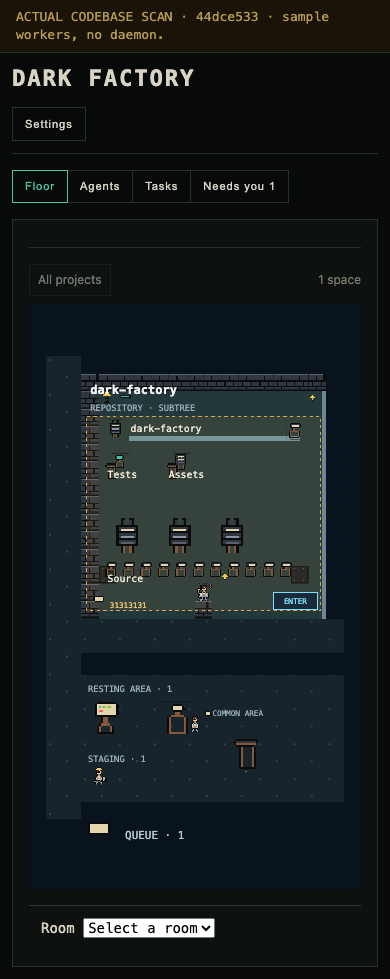
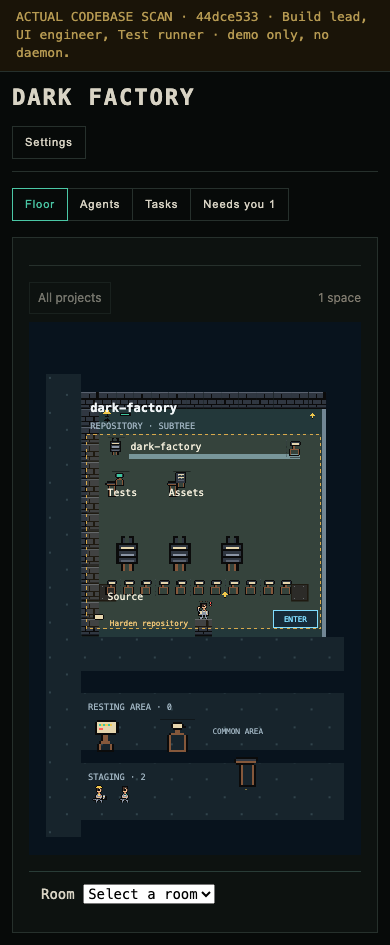
Show useful work in README floor demo

diff --git a/web/apps/dev/src/main.tsx b/web/apps/dev/src/main.tsx
@@ -89,6 +89,15 @@ const fixtureInventoryTopologies = new Map(fixtureHierarchyTopologies).set(fixtu
   ],
 });
 const fixtureInventoryState = { ...fixtureFloorState, humanRequests: new Map() };
+const actualAgentNames = ["Build lead", "UI engineer", "Test runner"];
+const actualFixtureState = {
+  ...fixtureInventoryState,
+  projects: new Map([[actualTopology.projectId, { ...fixtureInventoryState.projects.get(actualTopology.projectId)!, name: "dark-factory" }]]),
+  agents: new Map([...fixtureFloorState.agents].map(([id, agent], index) => [id, { ...agent, project_id: actualTopology.projectId, name: actualAgentNames[index] ?? agent.name }])),
+  tasks: new Map([...fixtureFloorState.tasks].map(([id, task], index) => [id, { ...task, project_id: actualTopology.projectId, status: "running" as const, title: ["Harden repository intake", "Render the operator settings", "Run the release checks"][index] ?? task.title }])),
+  humanRequests: new Map([...fixtureFloorState.humanRequests].map(([id, request]) => [id, { ...request, project_id: actualTopology.projectId }])),
+};
+const actualRequest = actualFixtureState.humanRequests.values().next().value!;
 
 // Fixture tour: sample data, no daemon, no authority. Fixture-only state
 // toggles expose production components; no action reports a daemon result.
@@ -115,11 +124,13 @@ function FixtureTour() {
   const [settingsOpen, setSettingsOpen] = useState(false);
   const [selectedAgent, setSelectedAgent] = useState<FactoryConsoleProps["selectedAgent"]>(terminalFixture ? { id: fixtureAgent.id, name: fixtureAgent.name, revision: fixtureAgent.revision } : archiveFixture ? { id: archiveAgent.id, name: archiveAgent.name, revision: archiveAgent.revision } : undefined);
   const [selectedTaskId, setSelectedTaskId] = useState<string>();
-  const [selectedHumanRequest, setSelectedHumanRequest] = useState<FactoryConsoleProps["selectedHumanRequest"]>();
+  const [selectedHumanRequest, setSelectedHumanRequest] = useState<FactoryConsoleProps["selectedHumanRequest"]>(actualNeedsYou ? {
+    request: actualRequest, phase: "ready", question: "Should the intake source accept this reviewed migration report, or wait for an operator decision?", options: ["Accept the reviewed report", "Keep it for manual review"], canReply: false, canCancel: false, replyMaxBytes: actualRequest.reply_max_bytes, reply: "",
+  } : undefined);
   return (
     <>
       <p className="devFixtureBanner" role="note">
-        {actual ? `ACTUAL CODEBASE SCAN · ${actualTopology.sourceRevision.slice(0, 8)} · sample workers, no daemon.` : "FIXTURE TOUR — sample data, no daemon. Actions that need the factory are inert here."}
+        {actual ? `ACTUAL CODEBASE SCAN · ${actualTopology.sourceRevision.slice(0, 8)} · Build lead, UI engineer, Test runner · demo only, no daemon.` : "FIXTURE TOUR — sample data, no daemon. Actions that need the factory are inert here."}
       </p>
       {!hierarchy ? null : <p className="devFixtureBanner" role="note">
         HIERARCHY FIXTURE — North and South use different served nesting; labels and paths are deliberately misleading.
@@ -139,7 +150,7 @@ function FixtureTour() {
         selectedTaskId={selectedTaskId}
         onSelectTask={setSelectedTaskId}
         status={connected ? "ready" : "closed"}
-        state={actual ? { ...fixtureInventoryState, projects: new Map([[actualTopology.projectId, { ...fixtureInventoryState.projects.get(actualTopology.projectId)!, name: "dark-factory" }]]), ...(actualNeedsYou ? { humanRequests: fixtureFloorState.humanRequests } : {}), ...(fixture === "actual-idle" ? { tasks: new Map(), agents: new Map() } : {}) } : inventoryFixture ? fixture === "inventory-idle" ? { ...fixtureInventoryState, tasks: new Map(), agents: new Map() } : crowded ? { ...fixtureCrowdedState, humanRequests: new Map() } : fixtureInventoryState : archiveFixture ? archiveFixtureState(archivedWorker) : returned ? fixtureReturnedState : crowded ? fixtureCrowdedState : fixtureFloorState}
+        state={actual ? { ...actualFixtureState, ...(actualNeedsYou ? {} : { humanRequests: new Map() }), ...(fixture === "actual-idle" ? { tasks: new Map(), agents: new Map() } : {}) } : inventoryFixture ? fixture === "inventory-idle" ? { ...fixtureInventoryState, tasks: new Map(), agents: new Map() } : crowded ? { ...fixtureCrowdedState, humanRequests: new Map() } : fixtureInventoryState : archiveFixture ? archiveFixtureState(archivedWorker) : returned ? fixtureReturnedState : crowded ? fixtureCrowdedState : fixtureFloorState}
         topologies={actual ? new Map([[actualTopology.projectId, actualTopology]]) : inventoryFixture ? fixtureInventoryTopologies : fixture === "paging" ? fixturePagedTopologies : changedTopology ? fixtureChangedTopologies : hierarchy ? fixtureHierarchyTopologies : fixtureTopologies}
         runPaths={returned ? fixtureRunPaths : crowded ? routeStep === 0 ? fixtureTourCrowdedRunPaths : fixtureMovementCrowdedRunPaths : fixtureRapidRunPaths[routeStep]!}
         view={view}

diff --git a/web/packages/ui/src/factory-scene/factory-scene.tsx b/web/packages/ui/src/factory-scene/factory-scene.tsx
@@ -381,7 +381,7 @@ export function FactoryScene({ topology, workers, appearance = DEFAULT_FLOOR_APP
             >
               <title>{task!.title}</title>
               <Frame name="prop.book" x={room.x + 8} y={room.door.y - 22} />
-              <text x={room.x + 26} y={room.door.y - 10} fill="#f0c777" fontSize="7" fontFamily="ui-monospace, monospace">{task!.id.slice(0, 8)}</text>
+              <text x={room.x + 26} y={room.door.y - 10} fill="#f0c777" fontSize="7" fontFamily="ui-monospace, monospace">{task!.title.slice(0, 18)}</text>
             </g>}
             {contents.map((item) => <g key={item.key} data-room-content={item.kind} {...sceneAction(item.targetId !== undefined && !nodes.has(item.targetId) && onEnterRoom === undefined ? undefined : () => { setSelectedRoomId(item.targetId ?? room.id); if (item.targetId !== undefined) onEnterRoom?.(item.targetId); })}
               aria-label={item.kind === "component" ? `Open component ${item.label}` : `Inspect ${item.count} ${item.label.toLowerCase()} files in ${node.label}`}>
